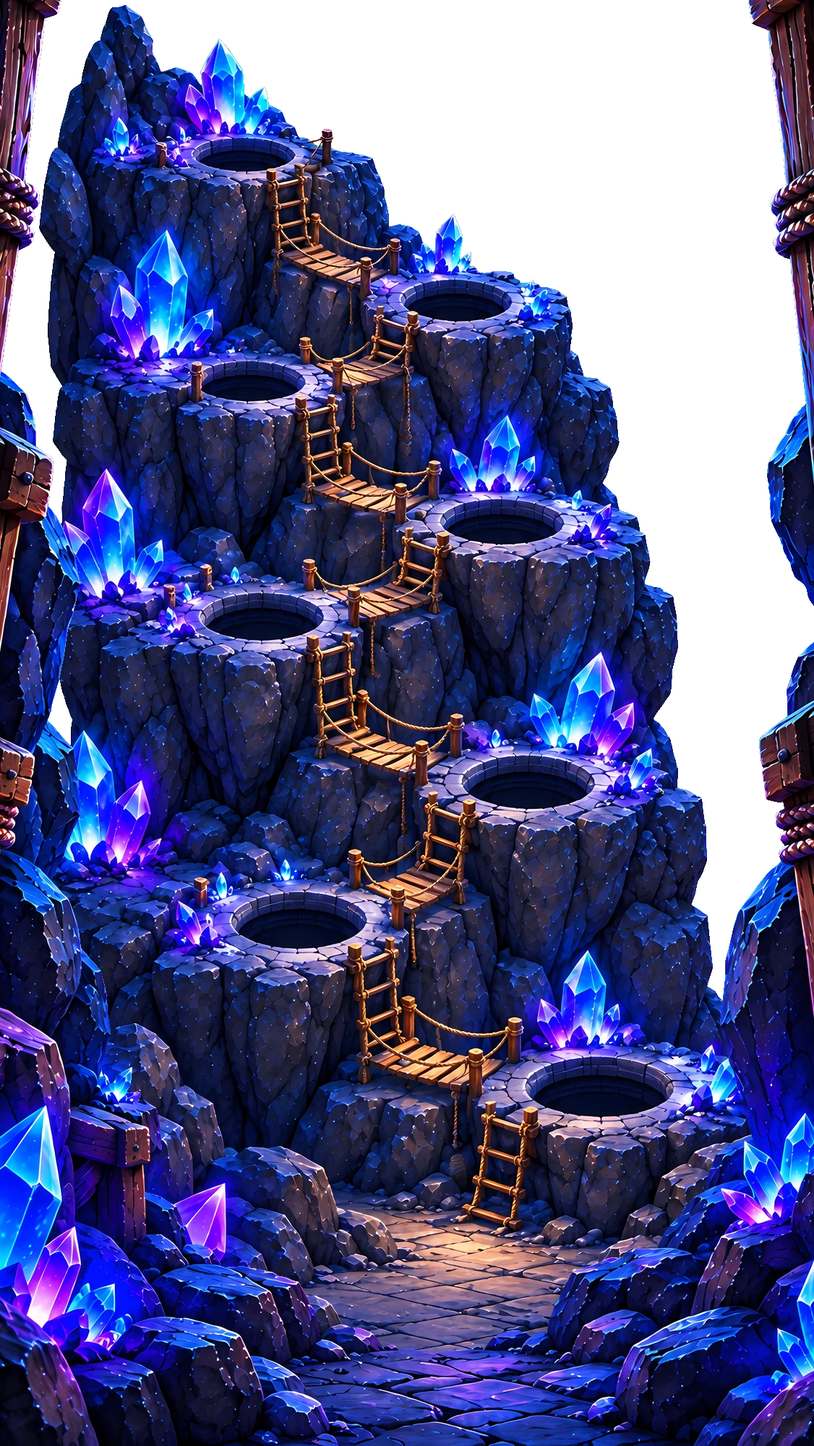
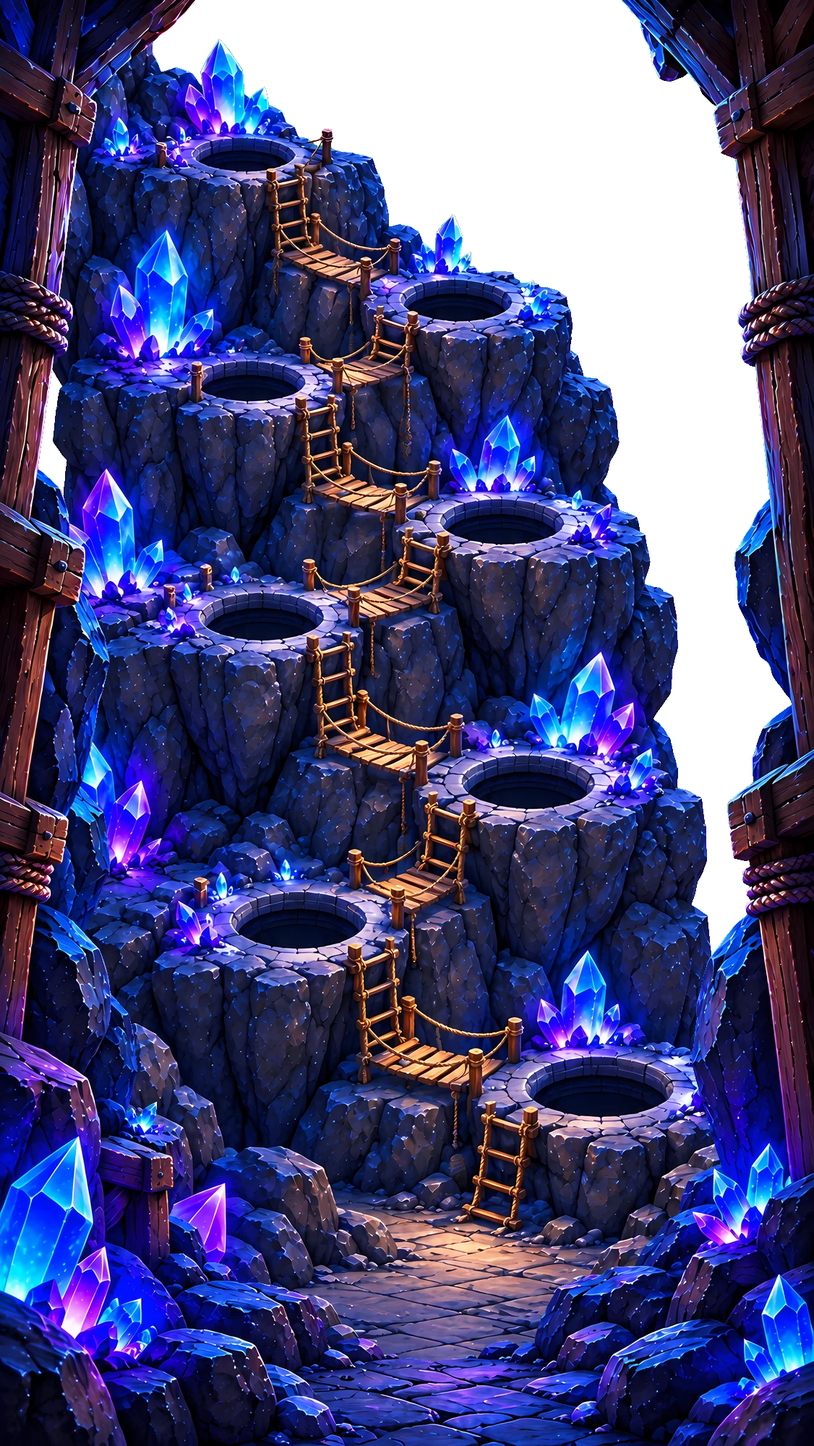
V1546 C: Normal map frame 100%, crystal glow on 14 crystals
- Normal front art rebuilt with the new frame at 100% (user)
- Crystal glow: soft pulsing halo at each crystal + twinkle at the tip (14 measured spots, violet/cyan tones)

Claude-Session: https://claude.ai/code/session_01A4gqRQNWjEF42VQpMkdpkG

Changed region(s): [[0.0, 0.0, 1.0, 1.0]]

diff --git a/mole/js/round-map.js b/mole/js/round-map.js
@@ -42,7 +42,9 @@
     // V1320 C: 아마추어 보석·랜턴 빛은 그림에서 뽑은 층(assets/roundmap/glow-v1320)으로 대체 — 좌표 점 끔
     easy: { glow:[], spark:[], bubble:[], gem:[], rearGem:[], lantern:[], rearLantern:[] },
     // V1321 C: 노말도 그림에서 뽑은 빛 층으로 대체 — 좌표 점 끔
-    mid: { glow:[], spark:[], bubble:[], gem:[], rearGem:[], lantern:[], rearLantern:[] },
+    mid: { glow:[], spark:[], bubble:[], gem:[], rearGem:[], lantern:[], rearLantern:[],
+      // V1546 C 사용자: 새 노말 앞그림 수정 빛남 — [가운데x, y, 끝x, 끝y, 색] (941×1672). 가운데=은은한 빛 맥동, 끝=반짝
+      crystal: [[245,136,237,72,'violet'],[176,327,200,281,'cyan'],[506,307,516,254,'cyan'],[562,561,562,507,'cyan'],[116,615,130,567,'violet'],[689,849,704,781,'violet'],[147,942,109,889,'violet'],[249,1063,259,1015,'violet'],[665,1202,668,1132,'violet'],[79,1384,87,1355,'cyan'],[96,1502,120,1442,'violet'],[247,1400,187,1356,'violet'],[849,1406,877,1337,'violet'],[893,1535,893,1488,'cyan']] },
     // V1324 C: 프로도 그림에서 뽑은 빛 층으로 대체 — 좌표 점 끔
     legend: { glow:[], spark:[], bubble:[], gem:[], rearGem:[], lantern:[], rearLantern:[] }
   };
@@ -247,6 +249,10 @@
       }
       f.glow.forEach(function (p) { html += '<span class="rm-glow" style="left:' + (p[0] / BW * 100) + '%;top:' + (p[1] / BH * 100) + '%;' + (p[2] ? '--rm-glow-size:' + (p[2] / BW * 100) + 'cqw;' : '') + '"></span>'; });
       f.spark.forEach(function (p) { for (var k = 0; k < (layered ? 1 : 5); k++) { var ox = k ? (Math.random() * 60 - 30) : 0, oy = k ? (Math.random() * 50 - 25) : 0; html += '<span class="rm-spark" style="left:' + ((p[0] + ox) / BW * 100) + '%;top:' + ((p[1] + oy) / BH * 100) + '%;animation-delay:' + (-Math.random() * 3).toFixed(2) + 's;animation-duration:' + (2.2 + Math.random() * 1.6).toFixed(2) + 's;scale:' + (0.6 + Math.random() * 0.6).toFixed(2) + '"></span>'; } }); // Amateur: exact crystal anchors; retain legacy five-spark clusters on other maps.
+      (f.crystal || []).forEach(function (p, i) {
+        html += '<span class="rm-cglow rm-cglow--' + p[4] + '" style="left:' + (p[0] / BW * 100).toFixed(2) + '%;top:' + (p[1] / BH * 100).toFixed(2) + '%;animation-delay:-' + ((i * .61) % 2.6).toFixed(2) + 's"></span>' +
+          '<span class="rm-spark" style="left:' + (p[2] / BW * 100).toFixed(2) + '%;top:' + (p[3] / BH * 100).toFixed(2) + '%;animation-delay:-' + ((i * .83) % 3).toFixed(2) + 's"></span>';
+      });
       // Amateur(지상 광산): 나비 3마리 + 잠자리 2마리가 하늘·풀밭 위를 날아다님(사용자 지정 v763)
       if (view === 'easy' && !el.classList.contains('rm-window-map')) {
         html += '<span class="hg-bfly hg-bfly--p rm-bfly rm-bfly--1"></span><span class="hg-bfly hg-bfly--y rm-bfly rm-bfly--2"></span><span class="hg-bfly hg-bfly--b rm-bfly rm-bfly--3"></span>';

diff --git a/mole/index.html b/mole/index.html
@@ -36,7 +36,7 @@
 <link href="https://fonts.googleapis.com/css2?family=Dongle:wght@700&family=Jua&family=Lilita+One&display=swap" rel="stylesheet">
 <link rel="stylesheet" href="../cosmic-theme.css">
 <link rel="stylesheet" href="../common/settings.css">
-<link rel="stylesheet" href="style.css?v=1545-C">
+<link rel="stylesheet" href="style.css?v=1546-C">
 <link rel="stylesheet" href="roundmap-window.css">
 <style>
   /* 로딩 스플래시 — style.css 로딩 전에도 바로 뜨게 인라인. */
@@ -1008,7 +1008,7 @@
         <!-- 배포 버전 표식(스크린샷으로 어느 버전인지 확인용) — 화면 좌하단에 두면 다른 UI에
              가려 잘 안 보인다는 사용자 지적으로, 하트 아이콘(다이얼패드 1번 칸) 바로 위로 이동. -->
         <div class="h2-preload" aria-hidden="true"></div><!-- v951: 게임 중 버튼 색(초록·노랑·빨강·분홍·회색) 미리 읽어 두기 — 처음 바뀔 때 깜빡임 방지 -->
-        <div id="build-tag" aria-hidden="true">V 1545 C</div>
+        <div id="build-tag" aria-hidden="true">V 1546 C</div>
         <!-- 피버타임(터치캐치 보너스타임) 전광판 — 버튼보드 자리를 통째로 덮는 오버레이,
              평소엔 hidden, 피버 중에만 콤보/잔여시간 표시(사용자 지정: "전광판처럼"). -->
         <div id="fever-scoreboard" class="fever-scoreboard" hidden>
@@ -1076,7 +1076,7 @@ window.FGH.rollOut = function (el, done) {
 <script src="js/workshop.js?v=1531-C"></script>
 <script src="js/round-map-fluids.js"></script>
 <script src="js/round-map-fluid-scenes.js"></script>
-<script src="js/round-map.js?v=1545-C"></script>
+<script src="js/round-map.js?v=1546-C"></script>
 <script src="js/rhythm-b-routes.js"></script>
 <script src="js/rhythm-b-flow.js"></script>
 <script src="js/rhythm-b-play.js"></script>
@@ -1294,7 +1294,7 @@ window.FGH.rollOut = function (el, done) {
         var gate = window.__moleAssetGate;
         function waitForCurrentWorker(registration) {
           return new Promise(function (resolve, reject) {
-            var latest = 'v=1545-C';
+            var latest = 'v=1546-C';
             var done = false;
             var timer = setTimeout(function () { finish(); }, 25000);
             function finish(error) {
@@ -1321,7 +1321,7 @@ window.FGH.rollOut = function (el, done) {
           console.warn('Starting while service worker registration continues in background');
           if (gate) gate.resolveCache();
         }, 30000);
-        navigator.serviceWorker.register('sw.js?v=1545-C').then(waitForCurrentWorker).then(function () {
+        navigator.serviceWorker.register('sw.js?v=1546-C').then(waitForCurrentWorker).then(function () {
           clearTimeout(registrationTimer);
           if (gate) gate.resolveCache();
         }).catch(function (error) {

diff --git a/mole/style.css b/mole/style.css
@@ -3179,6 +3179,11 @@ body { background: var(--lm-page); }
   animation: rm-twinkle 3s ease-in-out infinite; }
 .rm-spark:nth-of-type(2n) { animation-delay: -1.3s; } .rm-spark:nth-of-type(3n) { animation-delay: -2.1s; }
 @keyframes rm-twinkle { 0%, 70%, 100% { opacity: 0; transform: scale(0.3) rotate(0); } 82% { opacity: 1; transform: scale(1) rotate(45deg); } }
+/* V1546 C 사용자: 노말 수정 빛남 — 수정 가운데 은은한 빛이 커졌다 작아짐(합성만) */
+.rm-cglow { position: absolute; width: 16cqw; aspect-ratio: 1; margin: -8cqw 0 0 -8cqw; border-radius: 50%; pointer-events: none; z-index: 1; mix-blend-mode: screen;
+  background: radial-gradient(circle, rgba(170, 225, 255, .7) 0%, rgba(70, 160, 255, .32) 35%, transparent 70%); animation: rm-cglow 2.6s ease-in-out infinite; }
+.rm-cglow--violet { background: radial-gradient(circle, rgba(225, 190, 255, .7) 0%, rgba(150, 80, 255, .32) 35%, transparent 70%); }
+@keyframes rm-cglow { 0%, 100% { opacity: .35; transform: scale(.85); } 50% { opacity: 1; transform: scale(1.1); } }
 /* Normal 물방울(v767): 폭포 아래 물웅덩이에서만 보글보글 올라옴 */
 .rm-bub { position: absolute; width: 1.8cqw; height: 1.8cqw; margin-left: -0.9cqw; border-radius: 50%; pointer-events: none; z-index: 1; opacity: 0;
   background: radial-gradient(circle at 32% 30%, #fff 0 16%, rgba(210, 245, 255, 0.35) 24% 58%, rgba(120, 215, 255, 0.95) 66% 72%, transparent 76%);

diff --git a/mole/sw.js b/mole/sw.js
@@ -25,7 +25,8 @@
 // V1543 C: mole sprites sharpened (unsharp mask r1.8 200%).
 // V1544 C: bomb mole perf — no fuse sparks, no glow; green outline + pulse, strong bomb red; blast death no per-frame blur.
 // V1545 C: Normal round map new front art + frame (crystal cave, rope ladders), new hole coords; PANG word 3% lower.
-const CACHE = 'mole-game-v1545-C';
+// V1546 C: Normal map frame back to 100%, crystal glow pulse + twinkle on 14 crystals.
+const CACHE = 'mole-game-v1546-C';
 
 // 화면별 BGM(audio/bgm-*.mp3)은 v275 부터 SHELL 에 포함 — 기본 켜짐(v272)이라 항상 필요하고,
 // 캐시가 안 돼 있으면 오프라인/느린망에서 재생 실패했음.
